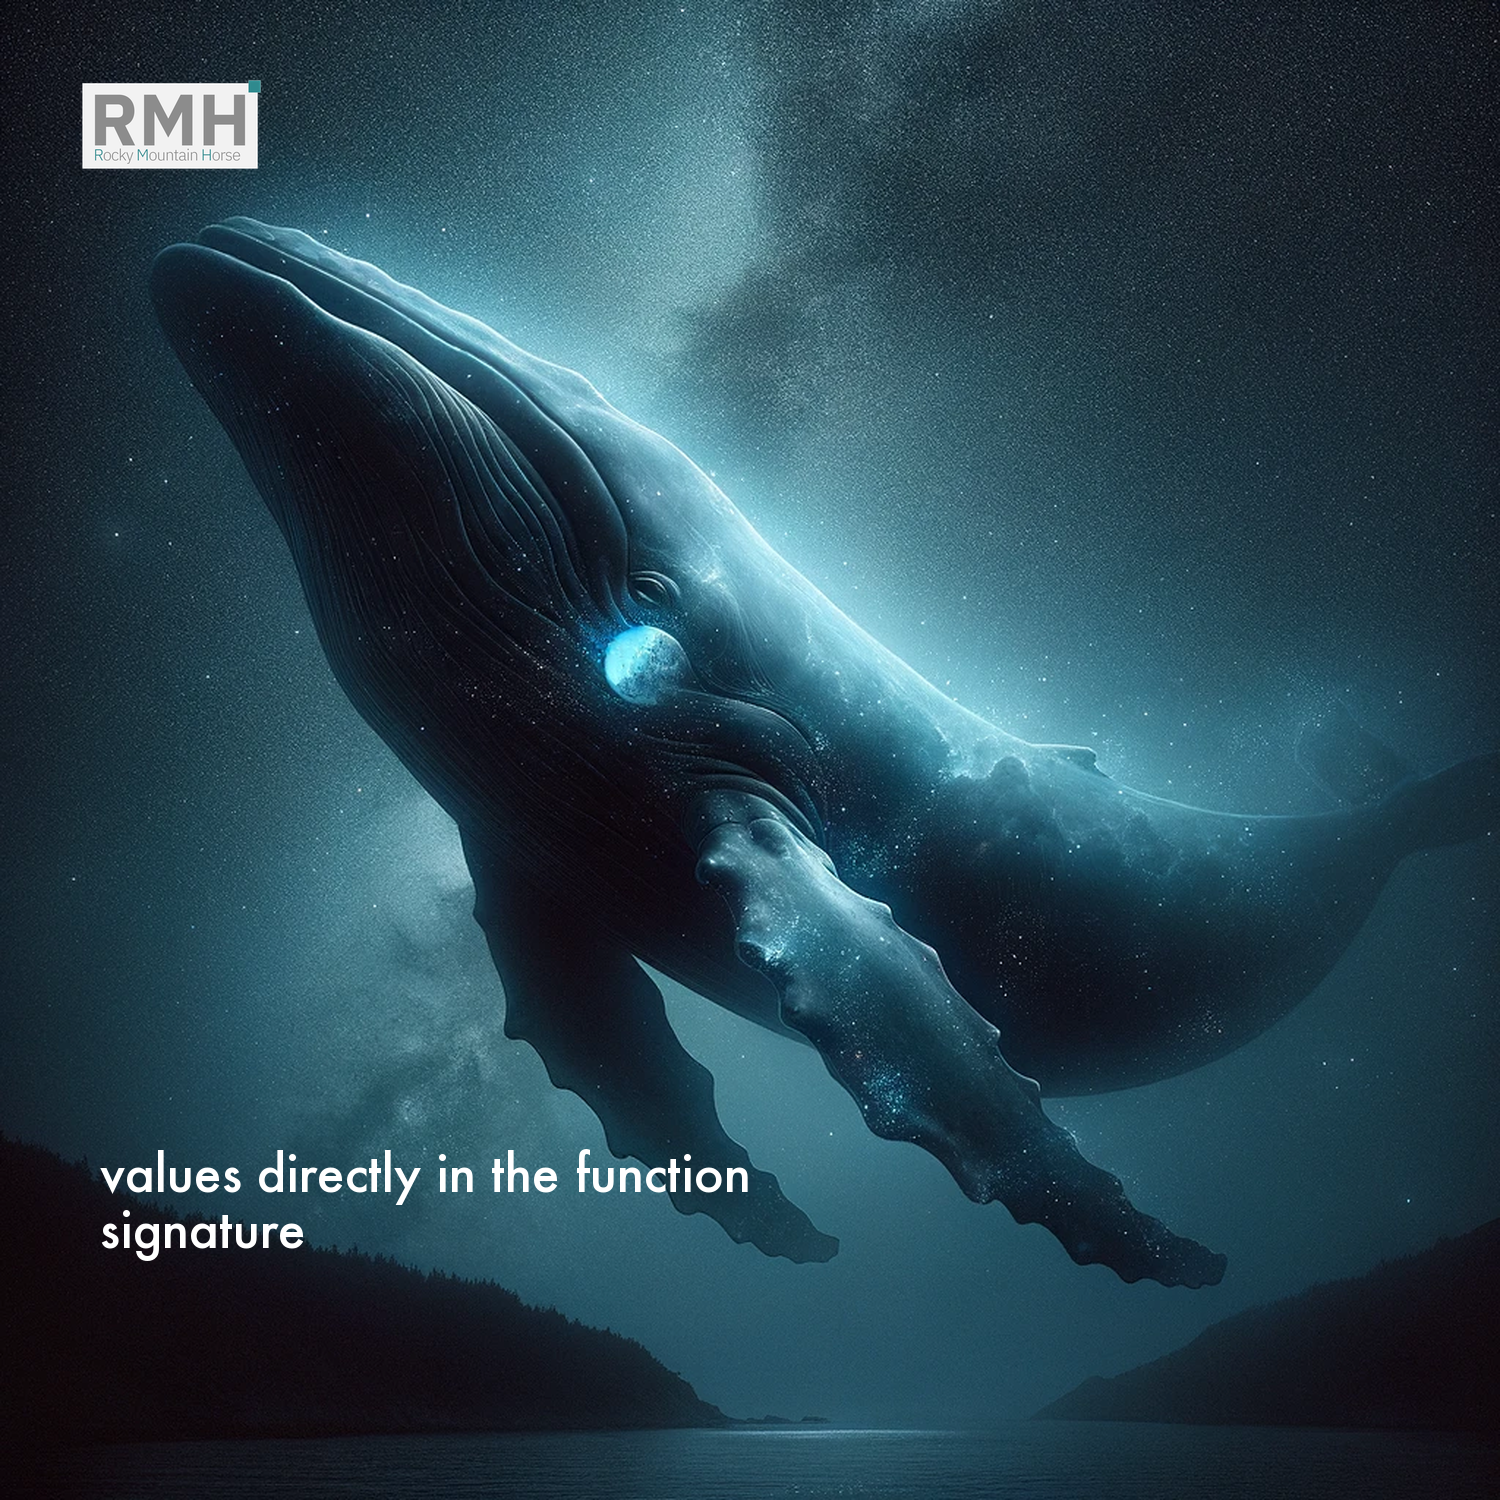
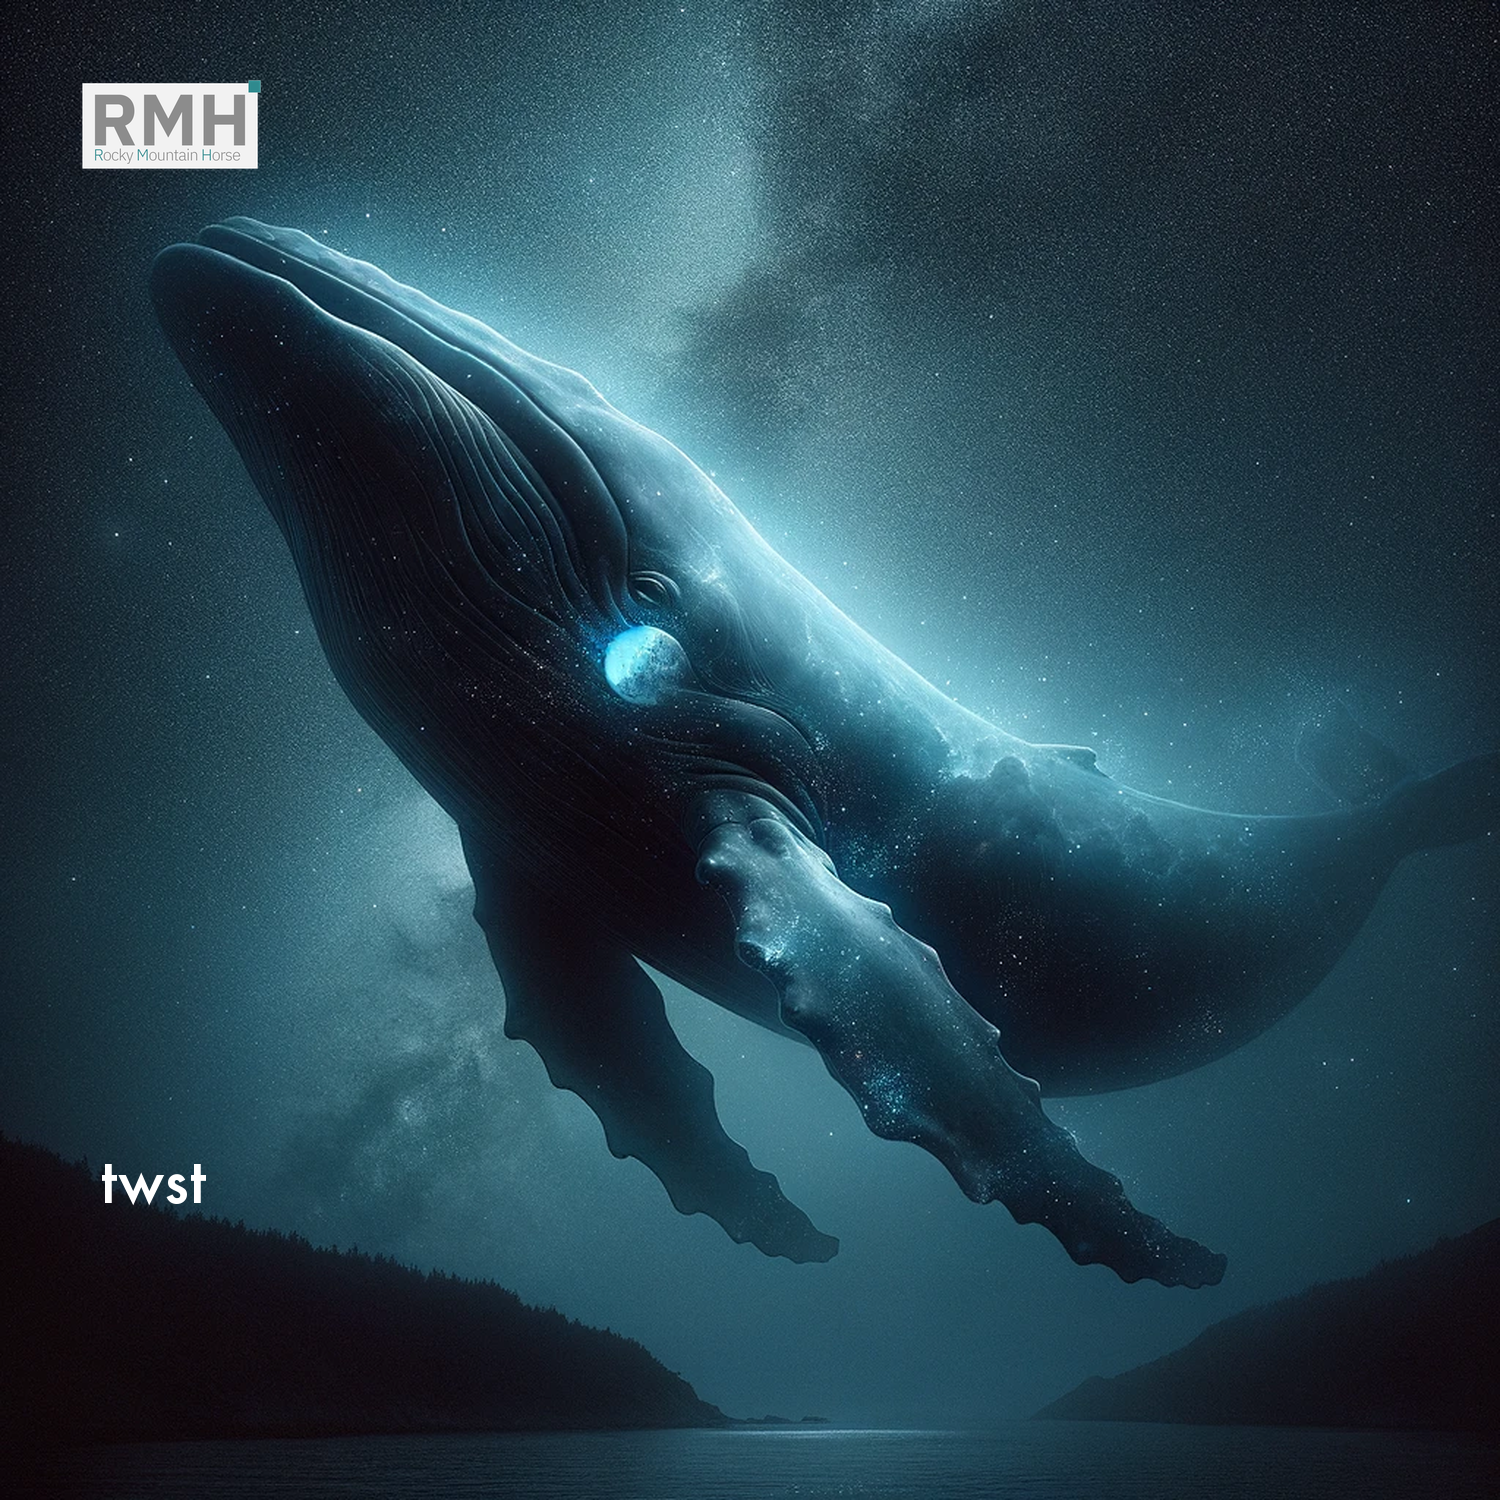
streamlip

Changed region(s): [[0.0613, 0.7667, 0.4907, 0.8587]]

diff --git a/app.py b/app.py
@@ -1,0 +1,74 @@
+import streamlit as st
+import requests
+from PIL import Image
+from io import BytesIO
+import main  # Assuming the main.py is in the same directory
+
+# URL of the FastAPI endpoint
+FASTAPI_URL = "http://localhost:9000/process_image/"
+
+def main():
+    st.title("Image Processing App")
+
+    # Upload images
+    uploaded_files = st.file_uploader("Upload Images", accept_multiple_files=True, type=['png', 'jpg', 'jpeg'])
+    logo_file = st.file_uploader("Upload Logo", type=['png'])
+
+    if uploaded_files and logo_file:
+        # Display the uploaded images
+        for uploaded_file in uploaded_files:
+            image = Image.open(uploaded_file)
+            st.image(image, use_column_width=True)
+
+        # Input text and other parameters
+        text = st.text_input("Text to add to the image")
+        position_x = st.number_input("Logo position X", value=-130)
+        position_y = st.number_input("Logo position Y", value=-180)
+        text_x = st.number_input("Text position X", value=100)
+        text_y = st.number_input("Text position Y", value=1140)
+        text_zone_width = st.number_input("Text zone width", value=40)
+        text_zone_height = st.number_input("Text zone height", value=150)
+        text_color = st.text_input("Text color (R,G,B)", value="255,255,255")
+        font_size = st.number_input("Font size", value=60)
+        font_path = st.text_input("Font path", value="/System/Library/Fonts/Supplemental/Futura.ttc")
+        alignment = st.selectbox("Text alignment", ["left", "center", "right"], index=0)
+        image_width = st.number_input("Image width", value=1500)
+        image_height = st.number_input("Image height", value=1500)
+        logo_width = st.number_input("Logo width", value=600)
+        logo_height = st.number_input("Logo height", value=600)
+
+        # Submit button
+        if st.button("Process Images"):
+            files = [("images", (file.name, file, file.type)) for file in uploaded_files]
+            files.append(("logo", (logo_file.name, logo_file, logo_file.type)))
+
+            data = {
+                "text": text,
+                "position_x": position_x,
+                "position_y": position_y,
+                "text_x": text_x,
+                "text_y": text_y,
+                "text_zone_width": text_zone_width,
+                "text_zone_height": text_zone_height,
+                "text_color": text_color,
+                "font_size": font_size,
+                "font_path": font_path,
+                "alignment": alignment,
+                "image_width": image_width,
+                "image_height": image_height,
+                "logo_width": logo_width,
+                "logo_height": logo_height,
+            }
+
+            response = requests.post(FASTAPI_URL, files=files, data=data)
+
+            if response.status_code == 200:
+                for idx, img_data in enumerate(response.json()):
+                    img_bytes = requests.get(img_data["file"]).content
+                    image = Image.open(BytesIO(img_bytes))
+                    st.image(image, caption=f"Processed Image {idx + 1}")
+            else:
+                st.error(f"Error: {response.status_code} - {response.text}")
+
+if __name__ == "__main__":
+    main()

diff --git a/main.py b/main.py
@@ -13,14 +13,23 @@ import arabic_reshaper
 from bidi.algorithm import get_display
 from typing import List, Optional
 import re
-import textwrap
-
+import json
+from fastapi.middleware.cors import CORSMiddleware
 
 # Define your Telegram Bot token here
-BOT_TOKEN = "YOUR_TELEGRAM_BOT_TOKEN"
+BOT_TOKEN = "7443260171:AAFXp0eDwbNjKxSMcAhwbHjOtYtCUGRCcrY"
 
 # Initialize FastAPI app
 app = FastAPI()
+
+# Allow CORS for all origins
+app.add_middleware(
+    CORSMiddleware,
+    allow_origins=["*"],  # Allows all origins
+    allow_credentials=True,
+    allow_methods=["*"],  # Allows all methods
+    allow_headers=["*"],  # Allows all headers
+)
 
 # Dependency to get DB session
 def get_db():
@@ -204,9 +213,23 @@ class TelegramWebhook(BaseModel):
 
 @app.post("/telegram_webhook/")
 async def telegram_webhook(request: Request):
-    update = Update.de_json(await request.json(), bot)
-    await application.update_queue.put(update)
-    return JSONResponse(content={"status": "ok"})
+    try:
+        # Log the received JSON data for debugging
+        body = await request.body()
+        print("Received webhook data:", body)
+
+        if not body:
+            raise ValueError("Received empty request body")
+
+        json_data = json.loads(body)
+        print("Parsed JSON data:", json.dumps(json_data, indent=4))
+
+        update = Update.de_json(json_data, Bot(BOT_TOKEN))
+        await application.update_queue.put(update)
+        return JSONResponse(content={"status": "ok"})
+    except Exception as e:
+        print(f"Error processing webhook: {e}")
+        return JSONResponse(content={"status": "error", "message": str(e)}, status_code=500)
 
 # Telegram command handlers
 async def start(update: Update, context: CallbackContext):
@@ -272,12 +295,20 @@ async def process_telegram_image(update: Update, context: CallbackContext):
     else:
         await update.message.reply_text('Please send an image!')
 
-# Create the application and add handlers
-application = Application.builder().token(BOT_TOKEN).build()
+def start_telegram_bot():
+    global application
+    application = Application.builder().token(BOT_TOKEN).build()
 
-application.add_handler(CommandHandler('start', start))
-application.add_handler(CommandHandler('help', help))
-application.add_handler(MessageHandler(filters.PHOTO, process_telegram_image))
+    application.add_handler(CommandHandler('start', start))
+    application.add_handler(CommandHandler('help', help))
+    application.add_handler(MessageHandler(filters.PHOTO, process_telegram_image))
+
+    # Set the webhook
+    ngrok_url = "https://993b-78-183-104-4.ngrok-free.app"  # Use ngrok to expose your local server
+    bot = Bot(token=BOT_TOKEN)
+    bot.set_webhook(f"{ngrok_url}/telegram_webhook/")
+
+    application.run_polling()
 
 if __name__ == "__main__":
     import uvicorn
@@ -286,9 +317,5 @@ if __name__ == "__main__":
     # Ensure temp directory exists
     os.makedirs('temp', exist_ok=True)
 
-    # Set the webhook
-    ngrok_url = "YOUR_NGROK_URL"  # Use ngrok to expose your local server
-    bot.set_webhook(f"{ngrok_url}/telegram_webhook/")
-
     # Run the FastAPI app
-    uvicorn.run(app, host="0.0.0.0", port=8000)
+    uvicorn.run(app, host="0.0.0.0", port=9000)
